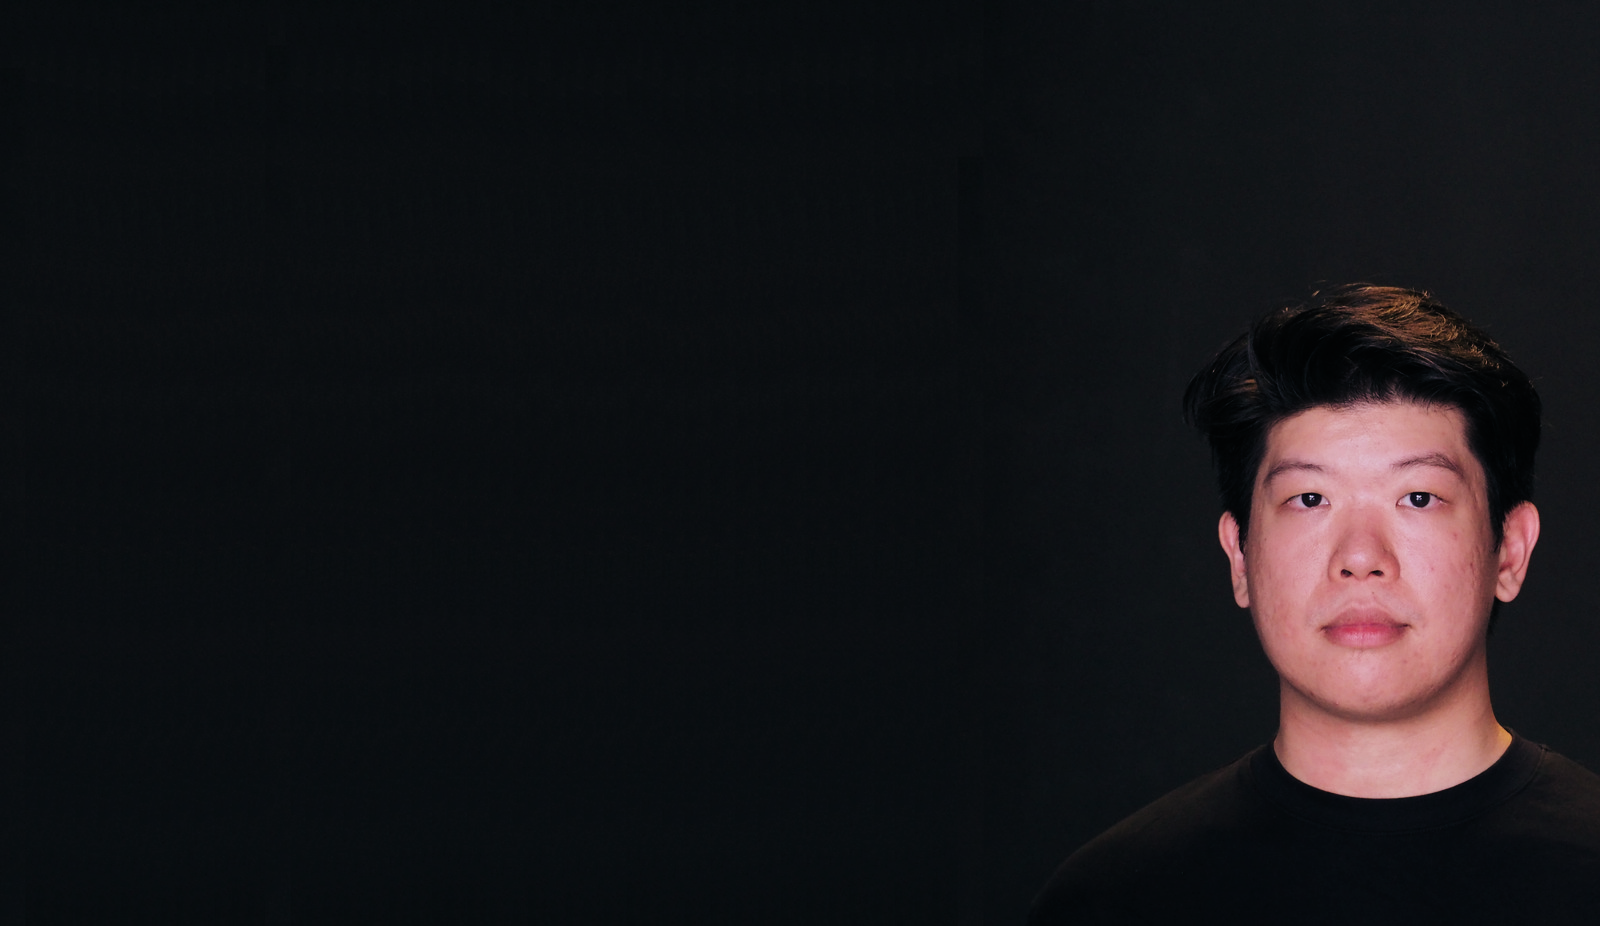
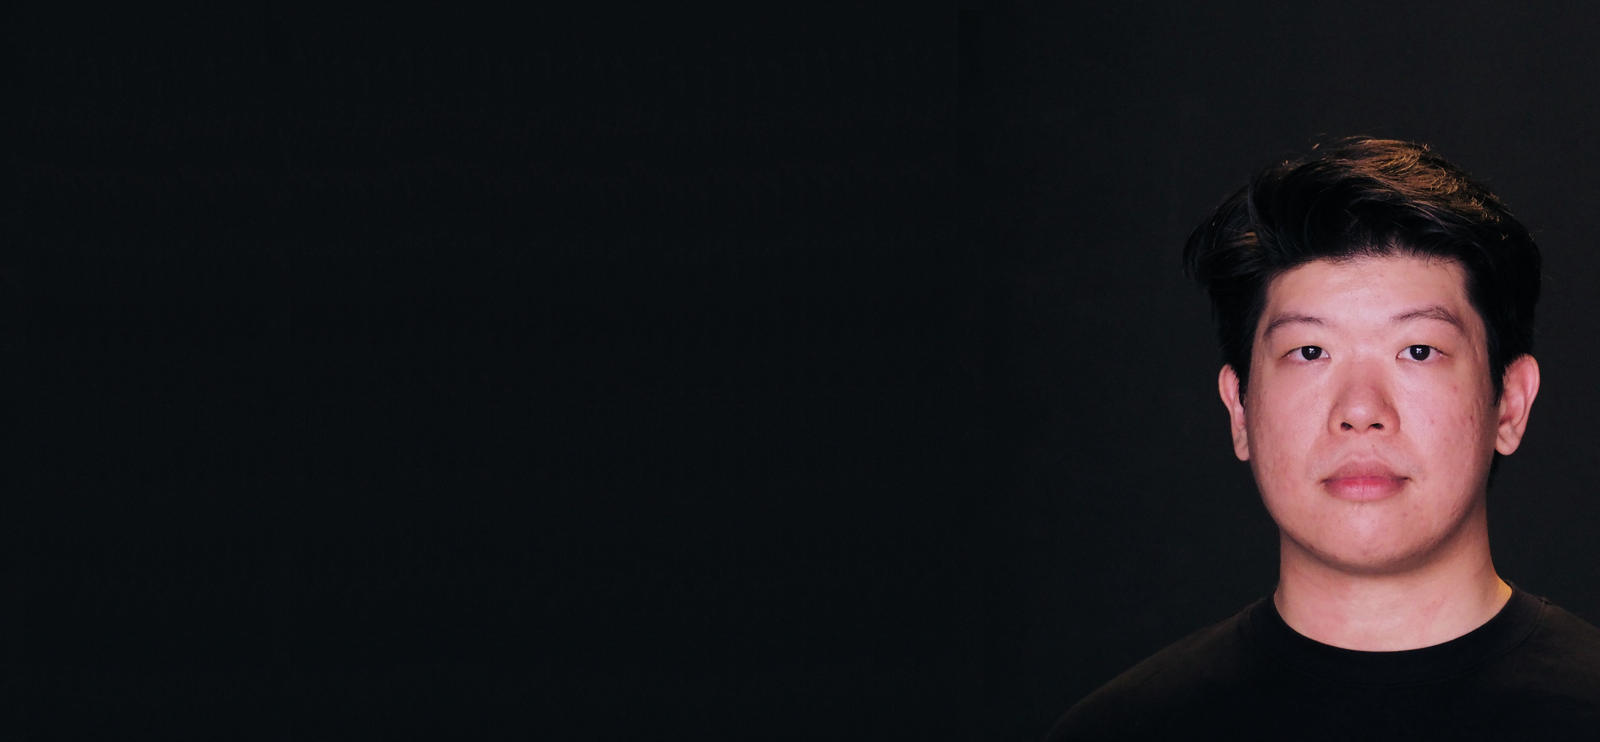
WIP: Sections and sections. Added bio section.

Changed region(s): [[0.75, 0.186, 0.9688, 0.8059], [0.8125, 0.8369, 0.9375, 0.8989]]

diff --git a/styles/globals.scss b/styles/globals.scss
@@ -5,10 +5,72 @@
 @layer components {
     #hero {
         background-image: url('../public/bg-kc.png');
-        height: 1200px;
+        height: 800px;
         background-repeat: no-repeat;
-        background-size: contain;
+        background-size: cover;
+        background-repeat: no-repeat;
+        background-position: center center;
     }
+
+    // Typewriter effect
+    .tw {
+        display: flex;
+        justify-content: flex-start;
+        align-items: flex-start;
+        vertical-align: middle;
+        align-items: center;
+        height: 100%;
+
+        &__wrapper {
+            margin-top: 2rem;
+            margin-left: 3rem;
+        }
+        &__kc {
+            font-size: 72px;
+            letter-spacing: 13.5px;
+            color: #fff;
+            font-weight: 800;
+        }
+        &__programmer {
+            color: #fff;
+            font-size: 24px;
+            overflow: hidden; /* Ensures the content is not revealed until the animation */
+            // border-right: .15em solid orange; /* The typwriter cursor */
+            white-space: nowrap; /* Keeps the content on a single line */
+            // margin: 0 auto; /* Gives that scrolling effect as the typing happens */
+            letter-spacing: .15em; /* Adjust as needed */
+            animation: 
+              typing 1.5s steps(30, end),
+              blink-caret .5s step-end infinite;
+        }
+        &__producer {
+            color: #fff;
+            font-size: 48px;
+            overflow: hidden; /* Ensures the content is not revealed until the animation */
+            // border-right: .15em solid orange; /* The typwriter cursor */
+            white-space: nowrap; /* Keeps the content on a single line */
+            letter-spacing: .15em; /* Adjust as needed */
+            -webkit-animation-delay: 2s;
+            animation-delay: 2s;
+            -webkit-animation-fill-mode: forwards;
+            animation-fill-mode: forwards;
+            animation: 
+                typing 3.5s steps(30, end),
+                blink-caret .5s step-end infinite;
+        }
+    }
+      
+      /* The typing effect */
+      @keyframes typing {
+        from { width: 0 }
+        to { width: 100% }
+      }
+      
+      /* The typewriter cursor effect */
+      @keyframes blink-caret {
+        from, to { border-color: transparent }
+        50% { border-color: orange }
+      }
     .hero {
         &__container {
             margin: auto;
@@ -32,22 +94,31 @@
             }
         }
     }
+    .bio {
+        background-color: #090B0A;
+        &__wrapper {
+            display: flex;
+            flex-direction: column;
+            color: #FFF;
+            margin-left: 3rem;
+            padding-top: 2rem;
+
+            > h2 {
+                font-size: 40px;
+                font-weight: 800;
+            }
+        }
+    }
     .nav {
         display: none;
-        margin-top: 1rem;
-        margin-bottom: 1rem;
+
         
         @media only screen and (min-width: 425px) {
             display: flex;
-            justify-content: center;
-            flex-direction: column;
-            position: absolute;
-            bottom: 30px;
-            left: 30px;
-            z-index: 999;
+            justify-content: flex-end;
         }
         &__item {
-            font-size: 36px;
+            font-size: 20px;
             font-weight: 800;
             margin-left: 1.5rem;
             margin-right: 1.5rem;

diff --git a/pages/index.tsx b/pages/index.tsx
@@ -1,16 +1,36 @@
 import Head from 'next/head'
 import Image from 'next/image'
+import { useEffect } from 'react';
 import type { NextPage } from 'next'
 import Header from '../components/Header'
+
+
+// const handleScroll = () => {}
+
+// useEffect(() => {
+//     window.addEventListener('scroll', handleScroll);
+//     return () => window.removeEventListener('scroll', handleScroll);
+// });
 
 const Home: NextPage = () => {
   return (
     <div>
-      <div id="hero" className="max-height-100 hero-image" >
-      <Header />
-
-      </div>
-      <div id="bio" className="max-height-100  bg-white"></div>
+      <section id="hero" className="max-height-100 hero-image" >
+        <Header />
+        <div className='tw'>
+          <div className='tw__wrapper'>
+            <h1 className="tw__kc">Keith Chin</h1>
+            <a className='tw__programmer' href="#work">Front End Developer. Music Maker. Audiophile.</a>
+          </div>
+        </div>
+      </section>
+      <section id="bio" className="bio max-height-100">
+        <div className="bio__wrapper">
+          <h2>Bio</h2>
+          <p>Welcome to my website.</p>
+          <p>I'm Keith Chin, or KC for short.</p>
+        </div>
+      </section>
       <div id="work" className="max-height-100  bg-black"></div>
       <div id="contact" className="max-height-100  bg-white"></div>
       <div id="disco" className="max-height-100  bg-black"></div>
